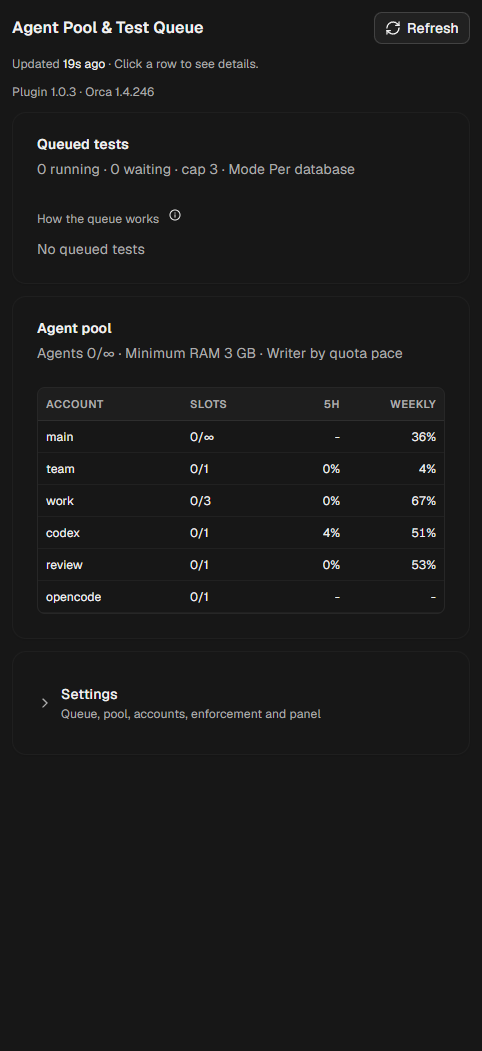
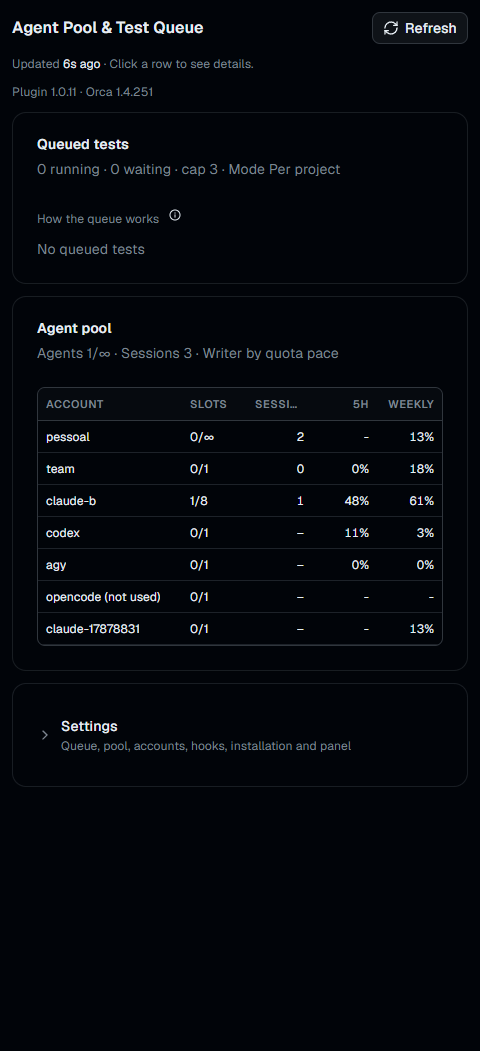
docs: fotos do README da 1.0.11

diff --git a/README.md b/README.md
@@ -34,8 +34,8 @@ An [Orca](https://github.com/stablyai/orca) plugin that lets many coding agents 
 4. The panel shows the **Requirements** screen. Each item is a row you open to see what it does, why the plugin needs it and the exact files a click will write; its **Install** button is inside the open row. All of them are required for the plugin to do its job:
    1. **Orca** 1.4.247 or newer;
    2. Orca's own **orchestration** skill (Orca installs it in its skills folder);
-   3. the **launcher** `~/.agents/bin/agent-pool` (plus `agent-pool.cmd` on Windows), the command agents and hooks call;
-   4. the **agent-pool skill**, copied to `~/.agents/skills/agent-pool` and linked into the skills folder of each agent of your active accounts (a copy you edited is not replaced: to reinstall it, delete `~/.agents/skills/agent-pool` and press **Install**);
+   3. the **agent-pool skill**, copied to `~/.agents/skills/agent-pool` and linked into the skills folder of each agent of your active accounts (a copy you edited is not replaced: to reinstall it, delete `~/.agents/skills/agent-pool` and press **Install**);
+   4. the **launcher** `~/.agents/bin/agent-pool` (plus `agent-pool.cmd` on Windows), the command agents and hooks call;
    5. the **agent hooks** (see [below](#what-it-changes-on-your-machine)).
 
 The panel stays on Requirements until every item is installed, and goes back to it whenever one goes missing: a hook removed, a new account whose folder still lacks the hook or the skill link, or the launcher left pointing at an older plugin or Orca version after an update (click **Install** again). Agents always call the launcher by its full path; add `~/.agents/bin` to your `PATH` if you want the short name `agent-pool` in your own terminal.
@@ -62,9 +62,9 @@ orca orchestration worker-start ...
 A reservation that is never swapped expires after 10 minutes, and a slot whose dispatch Orca reports as finished is freed on the next read. With the hooks installed, a bare `php artisan test` is refused with the exact command to run instead.
 
 ## The panel
-| Settings · Accounts | Settings · Hooks |
-|---|---|
-| ![Accounts settings](assets/settings-accounts.png) | ![Hooks settings](assets/settings-enforcement.png) |
+| Settings · Accounts | Settings · Hooks | Settings · Installation |
+|---|---|---|
+| ![Accounts settings](assets/settings-accounts.png) | ![Hooks settings](assets/settings-hooks.png) | ![Installation settings](assets/settings-installation.png) |
 
 - **Tests in the queue**: what is running and waiting, per queue, with the process and how long it has waited.
 - **Agent pool**: slots in use per account (`2/∞` for an account without its own limit), open Claude sessions per account (including the ones you open yourself; a session without `--agent` is display only, while an agent session opened with `--agent <role>` takes a slot for as long as it stays open), 5-hour and weekly quota, and the details of each account on click.
@@ -218,7 +218,7 @@ orca plugin dev load . # load this folder into Orca (the real install)
 
 Plugin do Orca que deixa vários agentes de código dividirem uma máquina com segurança: **pool de agentes** (contas com vagas, peso e papéis; o escritor de cada tarefa é a conta com mais cota sobrando × peso, ou a primeira da sua ordem), **fila de testes** para qualquer linguagem (por máquina e por recurso disputado, como o mesmo banco de testes), **hooks** no Claude Code e no Codex que fazem as regras valerem mesmo quando o agente esquece, e um **painel** no Orca, em português ou inglês conforme o idioma do Orca, com tudo configurável.
 
-**Instalação:** pelo catálogo de plugins do Orca (Configurações → Plugins) ou por **Add plugin → From a Git URL…** com `https://github.com/VictorStochero/orca-agent-pool#v1.0.11`; aprove o acesso e abra o painel **Agent Pool**. A ativação só cria `~/.agents/agent-pool/`. A tela de **Requisitos** lista o que o plugin precisa (Orca, skill `orchestration`, lançador `~/.agents/bin/agent-pool`, skill `agent-pool` e hooks), todos obrigatórios: cada linha abre para mostrar o que o item faz e os arquivos que o clique vai gravar, e só o botão **Instalar** grava. O `~/.codex/config.toml` nunca é tocado: o Codex pede a confiança no hook (o hook do Codex mudou de forma na 1.0.11 para o Codex pedir essa confiança de novo a quem vem da 1.0.10: o painel acusa "desatualizado" e o clique em **Instalar** troca o grupo; a tabela `[hooks.state.…]` com o `trusted_hash` que a 1.0.10 gravou lá deixa de valer e pode ser apagada à mão). No Windows o hook do Codex da 1.0.10 nunca bloqueou nada: o Codex roda o comando do hook pelo PowerShell, que recusava o comando antigo; agora ele começa com `& `. Conta detectada e desativada não exige nada; ao ativá-la, o painel pede o hook e a skill do agente dela. O Orca mínimo é o 1.4.247. O painel volta a travar em Requisitos se algo sumir (hook removido, conta nova sem hook, lançador desatualizado depois de uma atualização).
+**Instalação:** pelo catálogo de plugins do Orca (Configurações → Plugins) ou por **Add plugin → From a Git URL…** com `https://github.com/VictorStochero/orca-agent-pool#v1.0.11`; aprove o acesso e abra o painel **Agent Pool**. A ativação só cria `~/.agents/agent-pool/`. A tela de **Requisitos** lista o que o plugin precisa (Orca, skill `orchestration`, skill `agent-pool`, lançador `~/.agents/bin/agent-pool` e hooks), todos obrigatórios: cada linha abre para mostrar o que o item faz e os arquivos que o clique vai gravar, e só o botão **Instalar** grava. O `~/.codex/config.toml` nunca é tocado: o Codex pede a confiança no hook (o hook do Codex mudou de forma na 1.0.11 para o Codex pedir essa confiança de novo a quem vem da 1.0.10: o painel acusa "desatualizado" e o clique em **Instalar** troca o grupo; a tabela `[hooks.state.…]` com o `trusted_hash` que a 1.0.10 gravou lá deixa de valer e pode ser apagada à mão). No Windows o hook do Codex da 1.0.10 nunca bloqueou nada: o Codex roda o comando do hook pelo PowerShell, que recusava o comando antigo; agora ele começa com `& `. Conta detectada e desativada não exige nada; ao ativá-la, o painel pede o hook e a skill do agente dela. O Orca mínimo é o 1.4.247. O painel volta a travar em Requisitos se algo sumir (hook removido, conta nova sem hook, lançador desatualizado depois de uma atualização).
 
 **Desinstalação:** o Orca não avisa o plugin quando ele é removido. Antes de remover o plugin, use **Configurações → Instalação → Desinstalar tudo**: tira os hooks de todas as pastas, a skill, o lançador e `~/.agents/agent-pool/`. Se algum arquivo de agente não puder ser alterado, mostra qual e mantém a skill, o lançador e `~/.agents/agent-pool/`; os hooks que já saíram de outros arquivos não voltam.
 
